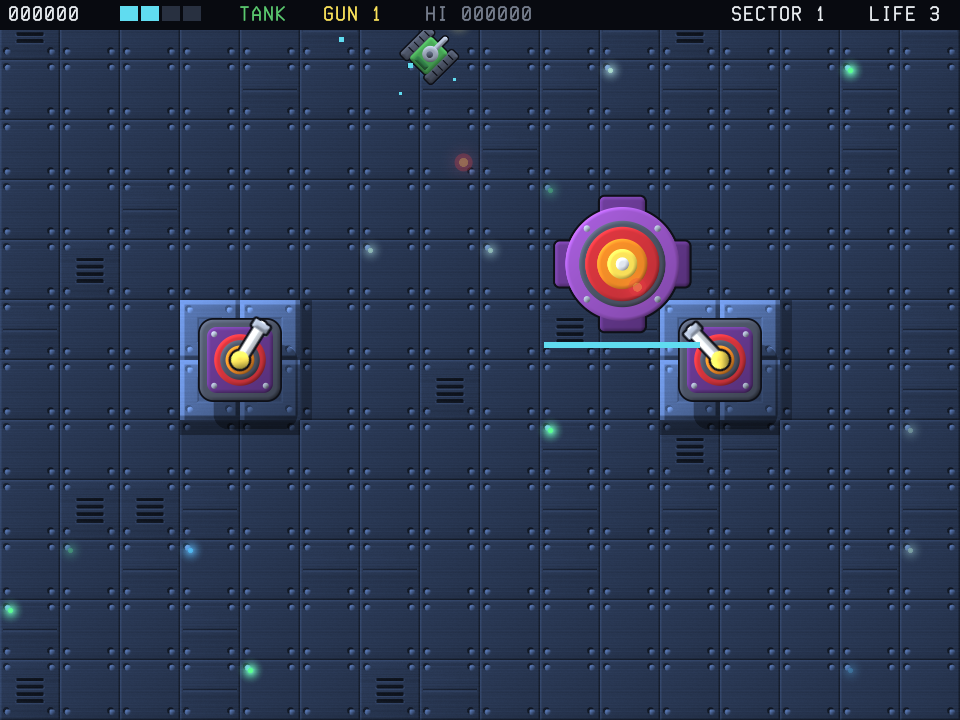
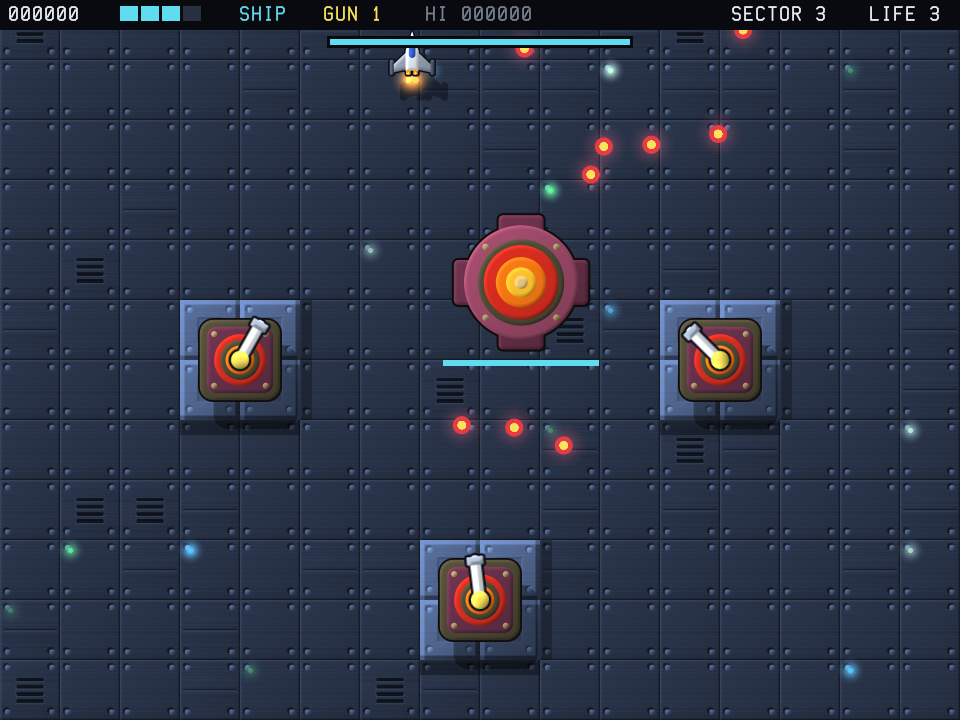
Add an option to start at a fortress
There was no way to look at a fortress without playing through its
sector first.

    sector9 --boss N

starts at the fortress of sector N.  10 to 18 are the laps beyond
sector nine.

diff --git a/src/main.c b/src/main.c
@@ -7,6 +7,7 @@
 #include "game.h"
 
 #define STEP (1.0 / 60)
+#define BOSS_ROW 2	/* start row with the whole fortress on screen */
 
 static SDL_GameController *pad;
 static int mouse_speed = 6;	/* half game pixels per count */
@@ -79,7 +80,9 @@ static void screenshot(SDL_Renderer *ren, const char *file)
 static int usage(int rc)
 {
 	fprintf(rc ? stderr : stdout,
-		"Usage: sector9 [-fh] [-m MODE]\n"
+		"Usage: sector9 [-bfhm]\n"
+		"  -b, --boss N      Start at the fortress of sector N, to look at it or practise;\n"
+		"                    10 to 18 are the laps beyond sector nine\n"
 		"  -f, --fullscreen  Start in fullscreen\n"
 		"  -h, --help        Show this help text\n"
 		"  -m, --mouse MODE  Mouse steering: marker (the craft heads for a marker)\n"
@@ -115,6 +118,7 @@ int main(int argc, char *argv[])
 	/* the long-only options are test hooks: scripted player, frame limit, screenshot, start row and sector */
 	enum { OPT_DEMO = 256, OPT_FRAMES, OPT_SHOT, OPT_ROW, OPT_SECTOR };
 	static const struct option opts[] = {
+		{ "boss",       required_argument, NULL, 'b' },
 		{ "fullscreen", no_argument,       NULL, 'f' },
 		{ "help",       no_argument,       NULL, 'h' },
 		{ "mouse",      required_argument, NULL, 'm' },
@@ -134,8 +138,12 @@ int main(int argc, char *argv[])
 	Uint64 prev;
 	double acc = 0;
 
-	while ((c = getopt_long(argc, argv, "fhm:", opts, NULL)) != -1) {
+	while ((c = getopt_long(argc, argv, "b:fhm:", opts, NULL)) != -1) {
 		switch (c) {
+		case 'b':
+			sector = atoi(optarg);
+			row = BOSS_ROW;
+			break;
 		case 'f':
 			fullscreen = 1;
 			break;

diff --git a/src/game.c b/src/game.c
@@ -1111,7 +1111,7 @@ void game_init(int start_row, int start_sector, int hiscore)
 	g.hiscore = hiscore;
 	g.seed = 0x2545f491u;
 	g.start_row = start_row;
-	g.start_sector = SDL_clamp(start_sector, 0, SECTORS);
+	g.start_sector = SDL_clamp(start_sector, 0, 2 * SECTORS - 1);
 	g.wx.flip = g.wy.flip = -1000;
 	show_title();
 }

diff --git a/README.md b/README.md
@@ -108,6 +108,9 @@ spirals or volleys aimed at the tank, and two of them send out rovers.
 | 8      | Swarm    | 4      | Sways, fires a spiral, sends out rovers |
 | 9      | Overseer | 4      | Weaves, fires rings, lifts off         |
 
+`sector9 --boss N` starts at the fortress of sector N, to have a look
+at it or to practise.  10 to 18 are the laps beyond sector nine.
+
 There are nine sectors.  The first ones are short and leave out the
 harder enemies.  Later sectors are longer, bring in gunships and heavy
 tanks, and everything in them fires faster.  Every 20,000 points earns
